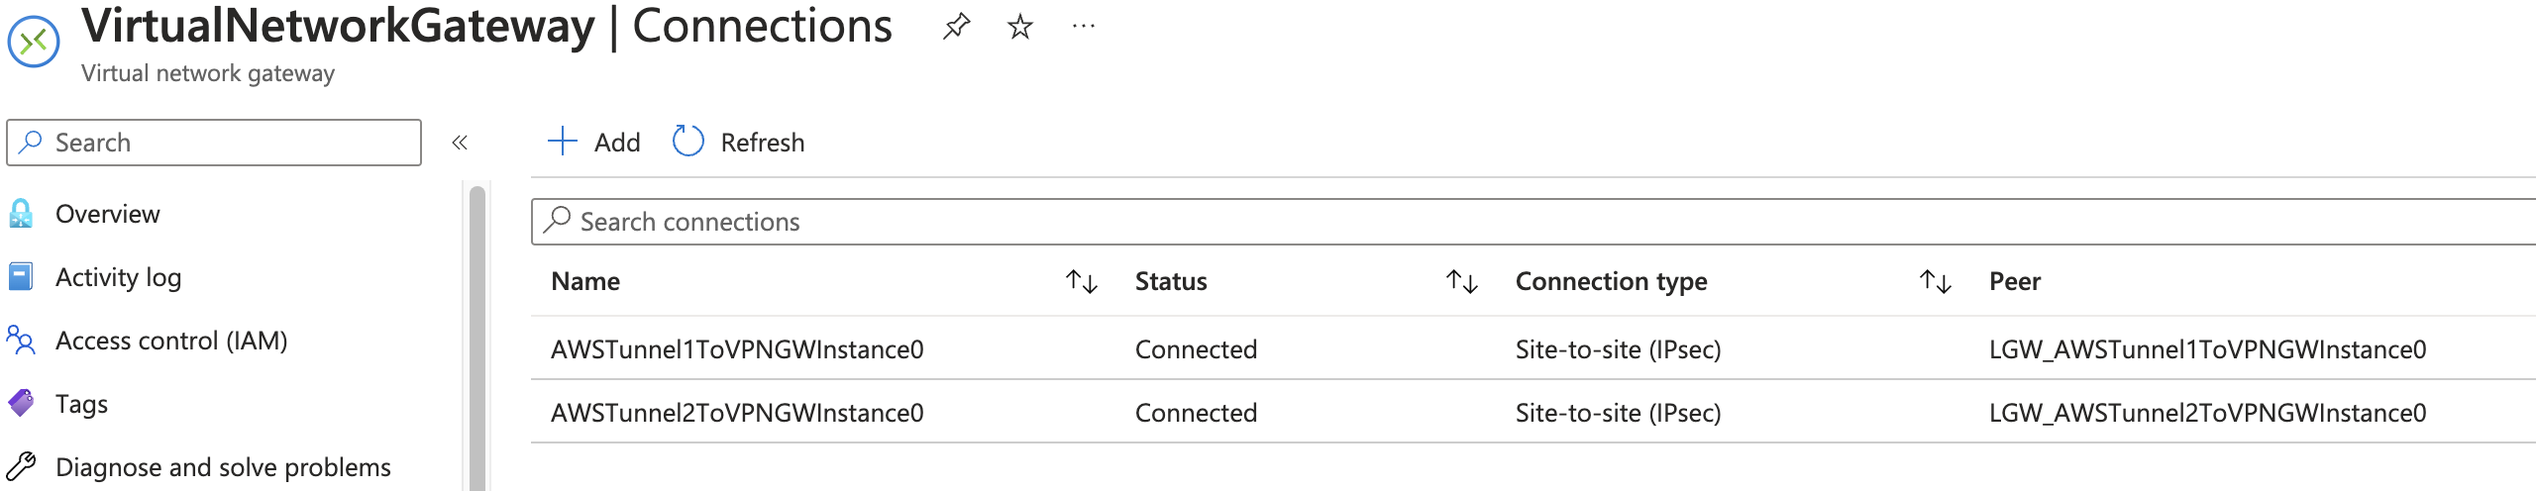
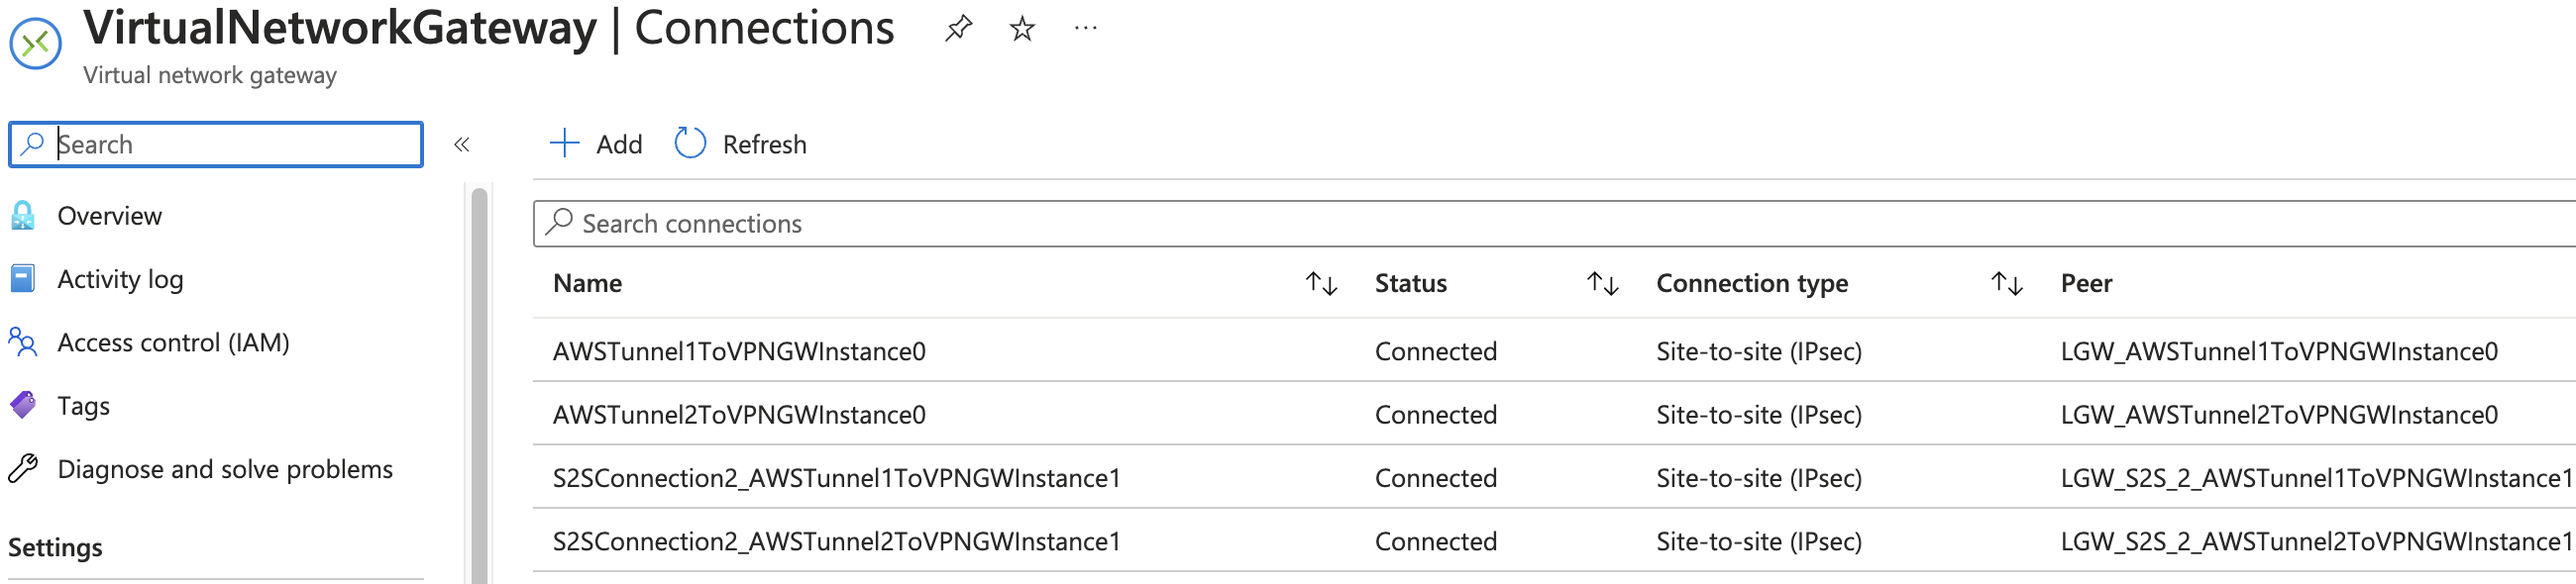
updated-config

diff --git a/README.md b/README.md
@@ -87,8 +87,6 @@ cdk deploy
 
 ## Configuration
 
-> **Note**: This configuration is for bgp-enabled azure vpn gateway **instance0**. Updating ....soon for **instance1**
-
 - In AWS Copy the both outside tunnel ip's.
   - In AWS management console. Navigate to Vpc → site-to-site connections → choose the tunnel.
 - Get the PSK for Tunnel-1 and Tunnel-2.
@@ -101,7 +99,7 @@ cdk deploy
 
 ## Verify the connections
 
-- Check the AWS tunnels are up.![TunnelState](pic/AWS-tunnel-state.png)
+- Check the AWS tunnels are up for both connections.![TunnelState](pic/AWS-tunnel-state.png)
 - Check the Azure VPN gateway connections.
 ![AzureVPNGWconnections](pic/vpn-connections.png)
 - Check the BGP peers status on Azure.
